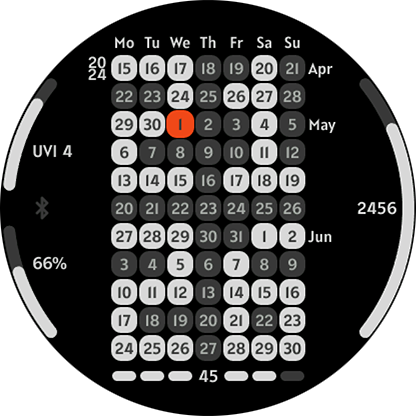
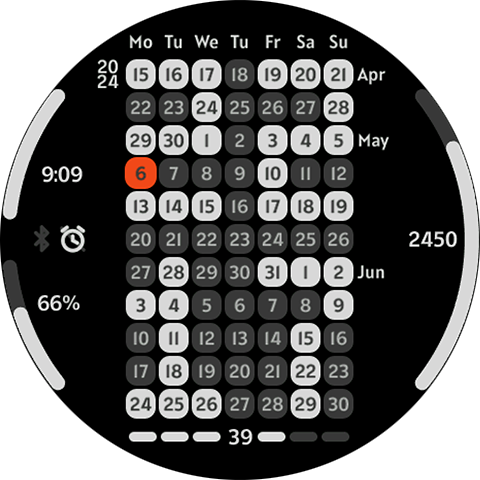
update descriptions

diff --git a/11-weeks/README.md b/11-weeks/README.md
@@ -1,7 +1,7 @@
 # 11 weeks
 Watchface for Amazfit GTR Mini
 
-![demo](./demo2.png)
+![demo](./demo-gtr-mini.png)
 
 ## Features
 
@@ -13,25 +13,26 @@ This layout provides a comprehensive view of time and personal metrics in a comp
 
 **Calendar:**
 - Spans 11 weeks:
-  - Includes 2 past weeks
+  - Includes 3 past weeks
   - The current week
-  - 8 upcoming weeks
+  - 7 upcoming weeks
 - Displays multiple indicators including:
   - Day of the week
   - Month
   - Year
   - Highlight for the current day
-- Has all indications (week day, months, years, currrent day highlight)
+- Has all indications (week day, months, years, current day highlight)
 
 **Time:**
 - Hours and minutes are displayed in a pixel font overlaying the calendar grid.
 - Seconds are shown below the main display using regular digits and a progress bar.
 
 **Additional Features:**
-- Progress bars for step count, UV index, and battery level.
+- Progress bars for step count, sleep time, and battery level.
 - Connection status indicator, which lights up in red when the phone is disconnected.
+- Alarm status indicator.
 
-**Model compatibility:** Amazfit GTR Mini (round, 416 x 416 pixels)
+**Model compatibility:** Amazfit GTR Mini (round, 416 x 416 pixels), Amazfit GTR 4 (round, 466 x 466 pixels), and all other round Zepp OS Devices with resolution up to 480 x 480 pixels
 
 **AOD:** No
 
